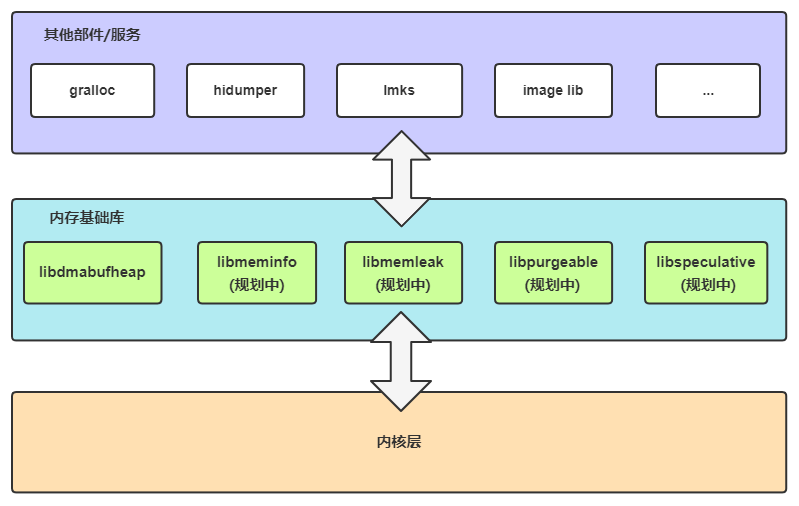
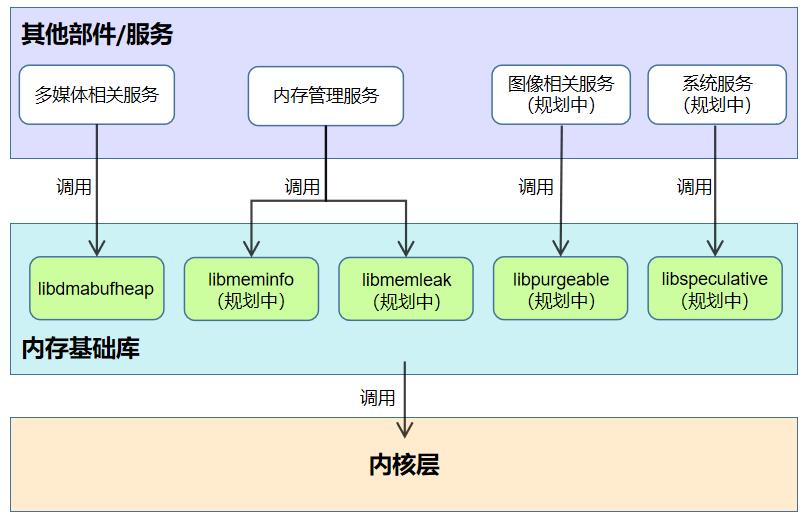
fix README and Architecture Images
issue: #I4VOUB

diff --git a/README_ZH.md b/README_ZH.md
@@ -1,7 +1,7 @@
 # 内存基础库部件
 
 -   [简介](#section_introduction)
--   [部件架构图](#section_architecture)
+-   [部件架构](#section_architecture)
 -   [目录](#section_catalogue)
 -   [内存基础库](#section_libraries)
     -   [libdmabufheap系统库](#section_libdmabufheap)
@@ -16,11 +16,19 @@
 
 内存基础库部件位于公共基础库子系统中，为上层业务提供对应的操作内存的系统库，保证上层业务的稳定性。
 
-## 部件架构图<a name="section_architecture"></a>
+## 部件架构<a name="section_architecture"></a>
 
 **图1** 内存基础库部件架构图
 
 ![](figures/zh-cn_image_fwk.png)
+
+| 内存基础库 | 使用者                  |
+| -------------- | -------------------------- |
+| libdmabufheap  | 多媒体相关服务      |
+| libmeminfo     | 内存管理服务         |
+| libmemleak     | 内存管理服务         |
+| libpurgeable   | 图形图像相关服务（规划中） |
+| libspeculative | 系统服务（规划中） |
 
 ## 目录<a name="section_catalogue"></a>
 
@@ -42,12 +50,12 @@
 
 ### libdmabufheap系统库<a name="section_libdmabufheap"></a>
 
-为业务提供分配共享内存的接口，通过在硬件设备和用户空间之间分配和共享内存，实现
+为多媒体相关服务提供分配共享内存的接口，通过在硬件设备和用户空间之间分配和共享内存，实现
 设备、进程间零拷贝内存，提升执行效率。
 
 ### libmeminfo系统库（规划中）<a name="section_libmeminfo"></a>
 
-提供内存占用查询接口。主要提供给内存占用维测（hidumper）、低内存查杀服务（lmks）使用。
+提供内存占用查询接口，用于内存占用信息查询、低内存查杀等场景。
 
 ### libmemleak系统库（规划中）<a name="section_libmemleak"></a>
 
@@ -55,11 +63,11 @@
 
 ### libpurgeable系统库（规划中）<a name="section_libpurgeable"></a>
 
-提供可丢弃类型内存的管理接口。主要提供给多媒体业务图形图像编解码库使用。
+提供可丢弃类型内存的管理接口。
 
 ### libspeculative系统库（规划中）<a name="section_libspeculative"></a>
 
-提供投机类型内存管理接口。主要提供给系统服务使用，用于缓存预读。
+提供投机类型内存管理接口，用于缓存预读。
 
 ## 使用说明<a name="section_usage"></a>
 

diff --git a/README.md b/README.md
@@ -22,6 +22,14 @@ The part of *Memory base libraries* belongs to the subsystem named *Utils Subsys
 
 ![](figures/en-us_image_fwk.png)
 
+| Memory Base Libraries | User                  |
+| -------------- | -------------------------- |
+| libdmabufheap  | multimedia service      |
+| libmeminfo     | memory manager service         |
+| libmemleak     | memory manager service         |
+| libpurgeable   | graphic service (planning) |
+| libspeculative | system service (planning) |
+
 ## Directory Structure<a name="section_catalogue"></a>
 
 ```
@@ -42,11 +50,11 @@ The part of *Memory base libraries* belongs to the subsystem named *Utils Subsys
 
 ### libdmabufheap system library<a name="section_libdmabufheap"></a>
 
-The memory system library provides interfaces for services to allocate and share shared memory. By allocating and sharing memory between hardware devices and user space, zero-copy memory between devices and processes is implemented to improve execution efficiency.
+The memory system library provides interfaces for the multimedia service to allocate and share shared memory. By allocating and sharing memory between hardware devices and user space, zero-copy memory between devices and processes is implemented to improve execution efficiency.
 
 ### libmeminfo system library (planning)<a name="section_libmeminfo"></a>
 
-It provides interfaces for memory usage queries. It is mainly used by memory footprint management service(hidumper) and low-memory killing service(lmks).
+It provides interfaces for memory usage queries. It is used for memory footprint query, low memory killing and other scenarios.
 
 ### libmemleak system library (planning)<a name="section_libmemleak"></a>
 
@@ -54,7 +62,7 @@ It cooperates with malloc_debug to detect memory leaks of native heap.
 
 ### libpurgeable system library (planning)<a name="section_libpurgeable"></a>
 
-It provides management interfaces for discardable-type memory. It is mainly used by graphics and image codec libraries.
+It provides management interfaces for discardable-type memory.
 
 ### libspeculative system library (planning)<a name="section_libspeculative"></a>
 
